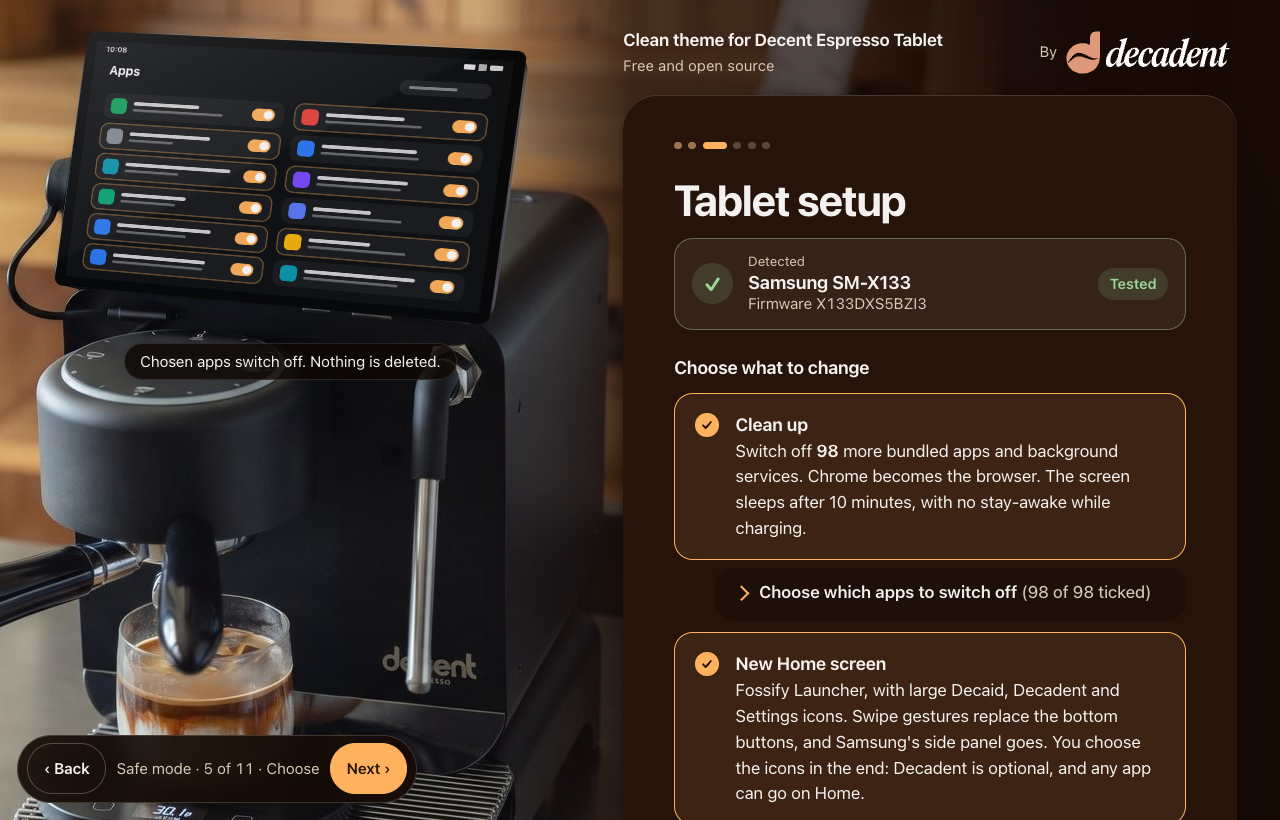
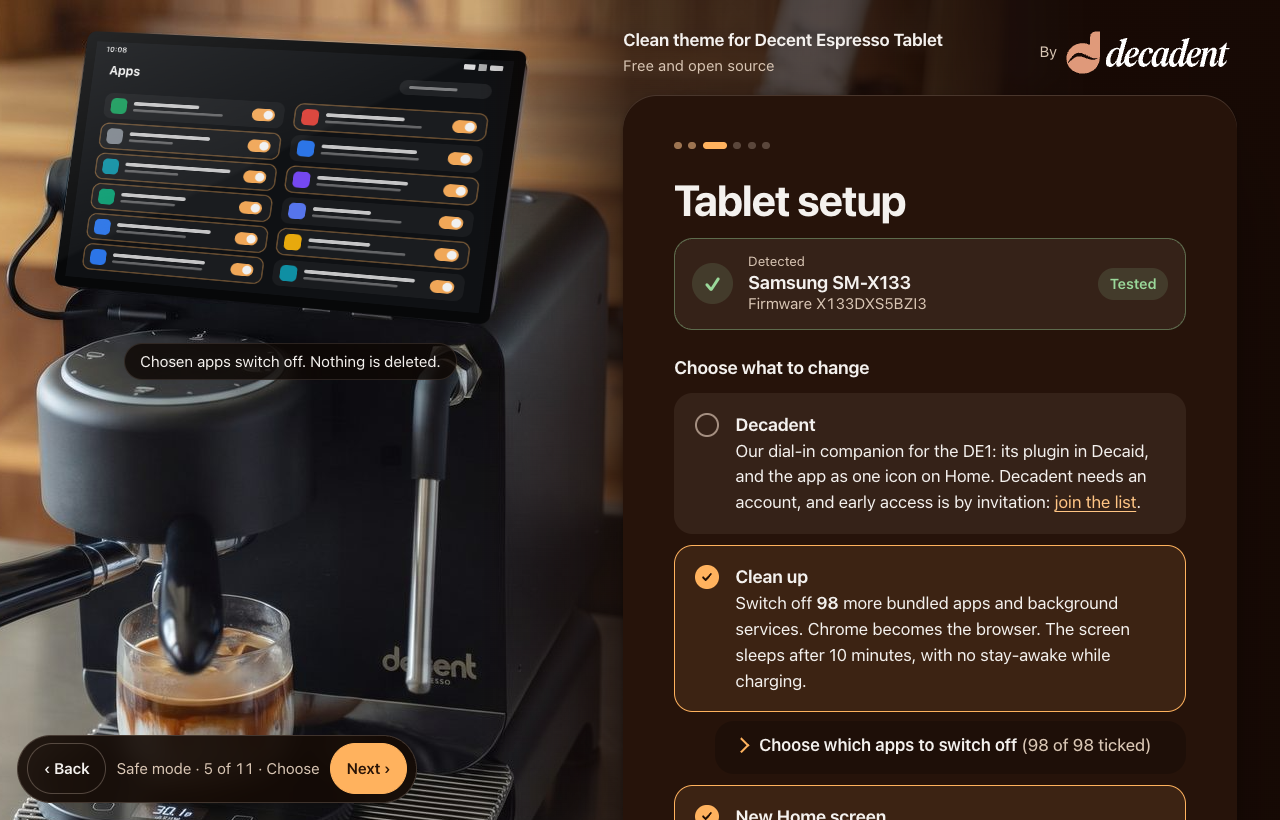
One installer, two ways in (D-34)
The choose screen holds every choice as a tick: Decaid, Decadent, Clean up, New Home screen.
Decadent no longer needs the Home option. ?for=decadent is the way in from Decadent's sign-up.
The last steps follow what was chosen and the tablet restarts only when something was changed.

Changed region(s): [[0.5312, 0.4878, 0.9375, 1.0]]

diff --git a/web/src/app.js b/web/src/app.js
@@ -11,6 +11,8 @@ const qs = new URLSearchParams(location.search);
 // behaves as in a real run, with Next / Back in a bar; nothing reaches USB. ?safe=done|nodecaid|manual|model|fail|build. &asks=N: Decaid asks its first questions for N checks.
 const DEMO = qs.has("safe") || qs.has("demo");
 const DEMO_KIND = qs.get("safe") ?? qs.get("demo");
+// The way in. ?for=decadent comes from Decadent's sign-up: the same page, with Decadent ticked from the start.
+const FOR_DECADENT = qs.get("for") === "decadent";
 
 const $ = (id) => document.getElementById(id);
 let tablet = null;
@@ -103,7 +105,10 @@ async function review() {
   try { await Promise.all([loadUndo(), tested && loadPlan()]); } finally { working(""); }
   $("unsupported-model").hidden = tested || newBuild;
   $("new-firmware").hidden = !newBuild;
+  decaidHave = await isInstalled(APKS.find((a) => a.name === "decaid").pkg);
   choiceDefaults();
+  // Safe mode: on=decaid,decadent,cleanup,home,plugin sets exactly those ticks.
+  if (DEMO && qs.get("on") !== null) { const on = qs.get("on").split(","); for (const k of ["decaid", "decadent", "plugin", "cleanup", "home"]) $(`opt-${k}`).checked = on.includes(k); }
   if (DEMO && qs.get("opts")) { const o = qs.get("opts"); $("opt-cleanup").checked = o !== "home"; $("opt-home").checked = o !== "clean"; }
   syncChoices();
   if (current !== "review") show("review");
@@ -117,6 +122,9 @@ const FOSSIFY = "org.fossify.home";
 function shown() {
   const avail = APPS.filter((a) => appState[a.pkg] === "enabled").length;
   return {
+    decaid: doAllowed && !decaidHave,
+    decadent: doAllowed && !!status && status.decadent_app !== "installed",
+    plugin: doAllowed && !!status && status.decadent_app === "installed" && decaidHave,
     cleanup: doAllowed && avail > 0,
     home: doAllowed && status && status.home !== FOSSIFY,
     undoApps: undoPlan.apps.length + undoPlan.appSettings.length > 0,
@@ -126,21 +134,30 @@ function shown() {
 function choiceDefaults() {
   const v = shown();
   $("opt-cleanup").checked = v.cleanup; $("opt-home").checked = v.home;
+  $("opt-decaid").checked = v.decaid; $("opt-decadent").checked = v.decadent && FOR_DECADENT; $("opt-plugin").checked = false;
   $("opt-undo-apps").checked = false; $("opt-undo-home").checked = false; $("keep-apps").checked = false;
 }
 // What the person has chosen, counting only the options on screen.
 function chosen() {
   const v = shown();
-  return { cleanup: v.cleanup && $("opt-cleanup").checked, home: v.home && $("opt-home").checked,
+  const decaid = v.decaid && $("opt-decaid").checked;
+  return { decaid, decadent: v.decadent && $("opt-decadent").checked && (decaidHave || decaid), plugin: v.plugin && $("opt-plugin").checked,
+    cleanup: v.cleanup && $("opt-cleanup").checked, home: v.home && $("opt-home").checked,
     undoApps: v.undoApps && $("opt-undo-apps").checked, undoHome: v.undoHome && $("opt-undo-home").checked };
 }
 function syncChoices() {
-  const v = shown(), c = chosen();
+  const v = shown();
+  // Decadent reaches the machine through Decaid: without Decaid on the tablet or ticked, its tick is off and says why.
+  const noDecaid = v.decadent && !decaidHave && !(v.decaid && $("opt-decaid").checked);
+  if (noDecaid) $("opt-decadent").checked = false;
+  $("opt-decadent").disabled = noDecaid; $("decadent-needs").hidden = !noDecaid;
+  const c = chosen();
+  $("row-decaid").hidden = !v.decaid; $("row-decadent").hidden = !v.decadent; $("row-plugin").hidden = !v.plugin;
   $("row-cleanup").hidden = !v.cleanup; $("pick").hidden = !c.cleanup;
   $("row-home").hidden = !v.home;
   $("row-undo-apps").hidden = !v.undoApps; $("undo-pick").hidden = !c.undoApps || undoPlan.apps.length === 0;
   $("row-undo-home").hidden = !v.undoHome; $("row-keep-apps").hidden = !c.undoHome;
-  const any = v.cleanup || v.home || v.undoApps || v.undoHome;
+  const any = v.decaid || v.decadent || v.plugin || v.cleanup || v.home || v.undoApps || v.undoHome;
   $("setup-part").hidden = !any; $("do-setup").hidden = !any;
   $("already").hidden = !(doAllowed && !v.cleanup && Object.keys(appState).length);
   syncUndo();
@@ -160,7 +177,7 @@ async function demoGoTo(to) {
     syncChoices(); await $("do-setup").onclick(); if (to === "undone") await runUndo(); return;
   }
   await $("do-setup").onclick(); if (to === "confirm" || current !== "confirm") return;
-  if (!decaidHave) { const d = qs.get("decaid") || "skip"; $(d === "add" ? "decaid-add" : "decaid-skip").checked = true; $("decaid-get").hidden = d !== "add"; }
+  if (!decaidHave) { const d = qs.get("decaid") || (want.decaid ? "add" : "skip"); $(d === "add" ? "decaid-add" : "decaid-skip").checked = true; $("decaid-get").hidden = d !== "add"; }
   const go = runSetup(); if (to === "running") return;
   await go; if (to === "finish") return;
   await until(() => $("fin-go") && !$("fin-you").hidden);
@@ -258,7 +275,7 @@ async function runSetup() {
   const bar = $("bar"), label = $("bar-label"), log = $("log"); log.textContent = "";
   const on = (l) => progress(l, bar, label, log);
   try {
-    const wantClean = $("opt-cleanup").checked, wantHome = $("opt-home").checked;
+    const wantClean = want.cleanup, wantHome = want.home;
     // Decaid is checked before anything is installed: the chosen file must be Decent's latest release.
     const decaid = APKS.find((a) => a.name === "decaid");
     let decaidBytes = null;
@@ -299,16 +316,16 @@ async function runSetup() {
     for (const el of document.querySelectorAll("[data-decaid]")) el.hidden = !decaidHave && !$("decaid-add").checked;
     const refused = (out.join("\n").match(/Refused by Android: (\d+)/) || [])[1];
     $("refused").textContent = refused && refused !== "0" ? `Android wouldn't switch off ${refused} of them, which is expected on some firmware.` : "";
-    $("fin-done").textContent = wantClean ? "The clean-up is done." : "The new Home screen is in.";
-    changedAt = Date.now();
-    busy = false; wantHomeDone = wantHome; show("finish"); startFinish();
+    $("fin-done").textContent = wantClean ? "The clean-up is done." : wantHome ? "The new Home screen is in." : decaidBytes ? "Decaid is installed." : "";
+    if (wantClean || wantHome) changedAt = Date.now();
+    busy = false; wantHomeDone = wantHome; ranChange = wantClean || wantHome; show("finish"); startFinish();
   } catch (e) { busy = false; setError("run-error", plainError(e)); $("run-title").textContent = "Stopped"; $("run-back").hidden = false; }
 }
 
 // Last steps. The owner joins Wi-Fi and signs in to Google; the core script's `finish` steps drive the rest
 // through the tablet's screen. Decaid's first questions are a pause for the owner (decaidReady). The written instructions
 // are always on the screen as the second way; a step the tablet doesn't allow also lists its own under Left for you.
-let wantHomeDone = true, finWifi = false, finAcct = null, finPoll = null, decadentHad = false;
+let wantHomeDone = true, ranChange = true, finWifi = false, finAcct = null, finPoll = null, decadentHad = false, finHome = "";
 const FIN = (s) => $("fin-steps").querySelector(`[data-k="${s}"]`);
 function finState(k, state, why) {
   const li = FIN(k); if (!li) return;
@@ -319,9 +336,7 @@ function finState(k, state, why) {
 async function finStatus() {
   const st = parseStatus(await tablet.setup("finish status"));
   finWifi = st.wifi === "connected";
-  decadentHad = st.decadent_app === "installed";
-  $("fin-decadent-h").textContent = decadentHad ? "Put Decadent on Home" : "Install Decadent on the tablet";
-  $("fin-decadent-p").textContent = decadentHad ? "Decadent is already on this tablet. Leave this off to keep its icon off Home." : "Our app for the DE1, as one icon on Home. Leave this off if you don't use it.";
+  decadentHad = st.decadent_app === "installed"; finHome = st.home || "";
   if (finAcct !== "skip") finAcct = st.google_account === "yes" ? "yes" : "no";
   $("fin-wifi-state").textContent = finWifi ? "Connected ✓" : "Not connected";
   $("wifi-form").hidden = finWifi;
@@ -409,23 +424,30 @@ async function runFinish(afterRestart = false) {
   stopPoll(); busy = true;
   $("fin-you").hidden = true; $("fin-run").hidden = false; $("fin-after").hidden = true; setError("fin-error");
   $("fin-run-h").textContent = "Finishing the tablet…"; $("fin-keep").hidden = false;
-  const home = wantHomeDone, onHome = home && $("fin-decadent").checked, decadent = onHome && !decadentHad;
-  // The Decadent plugin goes into Decaid through Decaid's own installer, whenever Decadent is wanted and Decaid is there.
-  const plugin = onHome && (decaidHave || $("decaid-add").checked);
-  // The plugin goes first: it is the one step that may need the owner (Decaid's first questions), so they are free after it.
-  const plan = ["restart", ...(plugin ? ["plugin"] : []), ...(home ? ["icons", "launcher"] : []), "updates", ...(decadent ? ["decadent"] : []), ...(home ? ["place", "more"] : []), ...(decaidHave || $("decaid-add").checked || onHome || decadentHad ? ["open"] : [])];
+  try { await finStatus(); } catch { /* keep the last reading */ }
+  // The steps for this visit. Read from the tablet as it is now (an undo may have run since the choose screen):
+  // the launcher steps arrange a launcher this visit installed, and never one the person has already arranged.
+  const newHome = wantHomeDone, ours = finHome === FOSSIFY;
+  const decaidThere = decaidHave || ($("decaid-add").checked && !!want.decaid);
+  const wantD = want.decadent && decaidThere, decadent = wantD && !decadentHad;
+  const onHome = wantD || decadentHad; // Decadent's icon belongs on Home
+  const plugin = (wantD || want.plugin) && decaidThere;
+  const plan = [...(ranChange ? ["restart"] : []), ...(plugin ? ["plugin"] : []), ...(newHome && ours ? ["icons", "launcher"] : []),
+    ...(ranChange || (wantD && finAcct === "yes") ? ["updates"] : []), ...(decadent ? ["decadent"] : []),
+    ...(ours && (newHome || wantD) ? ["place"] : []), ...(newHome && ours ? ["more"] : []), ...(decaidThere || onHome ? ["open"] : [])];
   // Name only the icons this tablet will get: Decaid if it is there, Decadent if wanted.
-  const icons = [...(decaidHave || $("decaid-add").checked ? ["Decaid"] : []), ...(onHome ? ["Decadent"] : []), "Settings"];
+  const icons = [...(decaidThere ? ["Decaid"] : []), ...(onHome ? ["Decadent"] : []), "Settings"];
   const said = (b) => icons.map((n) => (b ? `<b>${n}</b>` : n)).join(", ").replace(/, ([^,]*)$/, " and $1");
   const [w, h] = FIN("place").querySelectorAll(".place-list"); w.textContent = said(false); h.innerHTML = said(true);
   for (const li of $("fin-steps").children) li.hidden = !plan.includes(li.dataset.k);
   try {
-    if (!afterRestart) {
+    if (plan[0] === "restart" && !afterRestart) {
       finState("restart", "run");
       try { await restartTablet(); finState("restart", "done"); }
       catch { finState("restart", "manual"); busy = false; setError("fin-error", "The tablet didn't come back on its own. Unplug it and plug it back in, unlock it, tap Allow if it asks, then choose Reconnect the tablet."); $("fin-reconnect-row").hidden = false; return; }
     }
-    for (const k of plan.slice(1)) {
+    for (const k of plan) {
+      if (k === "restart") continue; // done above, or by hand before Reconnect
       finState(k, "run");
       if (k === "updates" && (!finWifi || finAcct !== "yes")) { finState(k, "manual", finWifi ? "needs a Google account" : "needs Wi-Fi"); continue; }
       if (k === "decadent" && !finWifi) { finState(k, "manual", "needs Wi-Fi"); continue; }
@@ -453,6 +475,8 @@ function finishLeft() {
   }
   const decadentIn = FIN("decadent") && !FIN("decadent").hidden && FIN("decadent").dataset.state !== "manual";
   if (decadentIn) { const item = document.createElement("li"); item.innerHTML = "<b>Log in to Decadent</b> on the tablet. It's open and waiting."; left.append(item); }
+  // Samsung's own Home puts a new app in its app list only, and its menus cannot be driven from here.
+  if (decadentIn && finHome !== FOSSIFY) { const item = document.createElement("li"); item.innerHTML = "<b>Put Decadent on Home.</b> It is in the tablet's app list: on Home, swipe up, hold <b>Decadent</b> and tap <b>Add to Home</b>."; left.append(item); }
   const none = left.children.length === 0;
   $("fin-left-h").textContent = none ? "All done" : "Left for you";
   if (none) { const item = document.createElement("li"); item.textContent = "Nothing. The tablet is ready."; left.append(item); }
@@ -496,7 +520,7 @@ function syncUndo() {
   const sum = $("undo-summary"); sum.textContent = "";
   if (c.undoApps) sum.append(el("li", { textContent: picked.length ? `Turn ${picked.length} app${picked.length === 1 ? "" : "s"} back on, with the original screen sleep time and browser.` : "Put the original screen sleep time and browser back." }));
   if (c.undoHome) sum.append(el("li", { textContent: $("keep-apps").checked ? "Put Samsung's Home screen back, keeping Fossify Launcher and Decadent installed." : "Put Samsung's Home screen back, and remove Fossify Launcher and Decadent." }));
-  const then = c.cleanup || c.home;
+  const then = c.cleanup || c.home || c.decaid || c.decadent || c.plugin;
   $("undo-then").hidden = !then;
   $("undo-go").textContent = then ? "Put these back, then continue" : "Put these back";
 }
@@ -518,7 +542,7 @@ async function runUndo() {
     }
     busy = false;
     // Undo first, then any new change chosen with it (say, the original Home screen back and Clean up).
-    if (c.cleanup || c.home) { $("opt-undo-apps").checked = false; $("opt-undo-home").checked = false; await toConfirm(); return; }
+    if (want.decaid || want.decadent || want.plugin || want.cleanup || want.home) { $("opt-undo-apps").checked = false; $("opt-undo-home").checked = false; await toConfirm(); return; }
     show("undone");
   } catch (e) { busy = false; setError("run-error", plainError(e)); $("run-title").textContent = "Stopped"; $("run-back").hidden = false; }
 }
@@ -651,23 +675,29 @@ function nameDecaid() {
   latestApk(APKS.find((a) => a.name === "decaid").url).then((l) => { if (l.version) $("decaid-link").textContent = `download the latest Decaid (${l.version})`; }).catch(() => { decaidNamed = false; });
 }
 
+// What this visit adds, fixed when the person leaves the choose screen: an undo that runs first must not change it.
+let want = { decaid: false, decadent: false, plugin: false, cleanup: false, home: false };
 async function toConfirm() {
   decaidHave = await isInstalled(APKS.find((a) => a.name === "decaid").pkg);
+  $("decaid-add").checked = want.decaid; $("decaid-skip").checked = !want.decaid; $("decaid-get").hidden = !want.decaid;
   $("decaid-have").hidden = !decaidHave; $("decaid-choice").hidden = decaidHave; $("decaid-missing").hidden = true;
+  $("confirm-h").textContent = decaidHave ? "Ready to start" : "Decaid installation";
   nameDecaid();
   show("confirm");
 }
 
 function init() {
   if (!supported()) { $("unsupported").hidden = false; $("start").disabled = true; }
+  if (FOR_DECADENT) { $("start-h").textContent = "Set up your tablet for Decadent"; $("start-lead").textContent = "Decaid, the Decadent plugin and the app, put on the tablet for you. A cleaner tablet too, if you want it."; }
   $("more").onclick = () => show("about");
   $("start").onclick = () => show("usb");
   $("usb-next").onclick = () => show("connect");
   $("connect").onclick = connect;
   $("do-setup").onclick = async () => {
-    const c = chosen(), none = !c.cleanup && !c.home && !c.undoApps && !c.undoHome;
+    const c = chosen(), none = !c.decaid && !c.decadent && !c.plugin && !c.cleanup && !c.home && !c.undoApps && !c.undoHome;
     $("opt-none").hidden = !none;
     if (none) return;
+    want = { decaid: c.decaid, decadent: c.decadent, plugin: c.plugin, cleanup: c.cleanup, home: c.home };
     if (c.undoApps || c.undoHome) { syncUndo(); show("undo"); return; }
     await toConfirm();
   };
@@ -708,7 +738,7 @@ function init() {
   $("pick-reset").onclick = () => { keep.clear(); for (const b of document.querySelectorAll("#app-groups input[data-pkg]")) if (!b.disabled) b.checked = true; syncApps(); };
   // Each area has one direction at a time: switching apps off or turning them back on, the new Home screen or the original.
   const OTHER = { "opt-cleanup": "opt-undo-apps", "opt-undo-apps": "opt-cleanup", "opt-home": "opt-undo-home", "opt-undo-home": "opt-home" };
-  for (const id of [...Object.keys(OTHER), "keep-apps"]) $(id).addEventListener("change", () => {
+  for (const id of [...Object.keys(OTHER), "keep-apps", "opt-decaid", "opt-decadent", "opt-plugin"]) $(id).addEventListener("change", () => {
     if ($(id).checked) { $("opt-none").hidden = true; if (OTHER[id]) $(OTHER[id]).checked = false; }
     syncChoices();
   });
@@ -718,7 +748,7 @@ function init() {
     FORCE = e.target.checked ? " --force" : "";
     doAllowed = e.target.checked;
     if (doAllowed) { working("Counting the apps…"); try { await loadPlan(); } finally { working(""); } }
-    const v = shown(); $("opt-cleanup").checked = v.cleanup; $("opt-home").checked = v.home;
+    choiceDefaults();
     syncChoices();
   });
   $("undo-app-list").addEventListener("change", (e) => { const p = e.target.dataset.undoPkg; if (p) { if (e.target.checked) undoOff.delete(p); else undoOff.add(p); syncUndo(); } });

diff --git a/web/src/demo.js b/web/src/demo.js
@@ -4,7 +4,7 @@ import APPS from "./apps.json";
 const wait = (ms) => new Promise((r) => setTimeout(r, ms));
 const PKG = (i) => APPS[(i - 1) % APPS.length].pkg; // the i-th package, 1-based
 export class DemoTablet {
-  constructor(opts = {}) { this.done = !!opts.done; this.noDecaid = !!opts.noDecaid; this.fail = opts.fail; this.manual = !!opts.manual; this.hold = !!opts.hold; this.pushed = []; this.wifi = opts.net === "wifi" || opts.net === "all"; this.account = opts.net === "all"; this.webapk = !!opts.decadent; this.slow = !!opts.slow; this.asks = opts.asks || 0; }
+  constructor(opts = {}) { this.done = !!opts.done; this.noDecaid = !!opts.noDecaid; this.fail = opts.fail; this.manual = !!opts.manual; this.hold = !!opts.hold; this.pushed = []; this.wifi = opts.net === "wifi" || opts.net === "all"; this.account = opts.net === "all"; this.webapk = !!opts.decadent; this.slow = !!opts.slow; this.asks = opts.asks || 0; this.fossify = this.done; }
   async prepare() {}
   async push(p) { this.pushed.push(p); }
   async run(c, onLine = () => {}) {
@@ -30,14 +30,14 @@ export class DemoTablet {
       if (this.fail === "model" || this.fail === "build") await say(`FAIL this tablet is ${m} ${b}, which has not been tested. Nothing changed.`);
     }
     if (a === "plan") await say(this.done ? "PLAN disable=0 already-off-or-absent=100" : "PLAN disable=97 already-off-or-absent=3");
-    if (a === "status") { for (const l of [`STATUS model=SM-X133`, `STATUS build=X133DXS5BZI3`, `STATUS undo_record=${this.done ? "present" : "none"}`, `STATUS home=${this.done ? "org.fossify.home" : "com.sec.android.app.launcher"}`, "STATUS app net.tadel.reaprime enabled"]) await say(l); }
+    if (a === "status") { for (const l of [`STATUS model=SM-X133`, `STATUS build=X133DXS5BZI3`, `STATUS undo_record=${this.done ? "present" : "none"}`, `STATUS home=${this.fossify ? "org.fossify.home" : "com.sec.android.app.launcher"}`, `STATUS decadent_app=${this.webapk ? "installed" : "none"}`, "STATUS app net.tadel.reaprime enabled"]) await say(l); }
     if (this.hold && !dry && (a === "cleanup" || a === "home")) { for (let i = 1; i <= 41; i++) await say(`DONE ${i}/100 ${PKG(i)}`, 0); await new Promise(() => {}); } // debug: stay on the running screen
     if (a === "cleanup" && !dry && this.fail === "run") { await say(`DONE 1/100 ${PKG(1)}`, 300); await say(`FAIL ${PKG(2)}: Unknown error. Stopped. Run undo to go back.`); return out; }
     if (a === "cleanup" && !dry) { for (let i = 1; i <= 100; i += 9) await say(`DONE ${i}/100 ${PKG(i)}`, 60); await say("OK cleanup finished. Refused by Android: 2"); this.done = true; }
     if (a === "cleanup" && dry) { await say("PLAN system/screen_off_timeout: 2147483646 -> 600000"); await say("PLAN 1/100 disable com.netflix.mediaclient"); await say("PLAN 2/100 disable com.spotify.music"); await say("OK dry run: nothing changed"); }
     if (a === "finish") {
       const k = args.split(" ")[1];
-      if (k === "status") { await say(`STATUS wifi=${this.wifi ? "connected" : "disconnected"}`); await say(`STATUS google_account=${this.account ? "yes" : "no"}`); await say("STATUS home=org.fossify.home"); await say(`STATUS decadent_app=${this.webapk ? "installed" : "none"}`); await say("OK finish status"); }
+      if (k === "status") { await say(`STATUS wifi=${this.wifi ? "connected" : "disconnected"}`); await say(`STATUS google_account=${this.account ? "yes" : "no"}`); await say(`STATUS home=${this.fossify ? "org.fossify.home" : "com.sec.android.app.launcher"}`); await say(`STATUS decadent_app=${this.webapk ? "installed" : "none"}`); await say("OK finish status"); }
       if (k === "wifi-open") { await say("DONE finish wifi-open"); setTimeout(() => { this.wifi = true; }, 5000); }
       if (k === "account-open") { await say("DONE finish account-open"); setTimeout(() => { this.account = true; }, 5000); }
       if (k === "icons") await say(this.manual ? "MANUAL finish icons no Remove option appeared" : "DONE finish icons removed=3", 900);
@@ -59,11 +59,11 @@ export class DemoTablet {
     }
     if (a === "install") await say("DONE installed fossify.apk", 300);
     if (a === "home" && dry) { await say("PLAN android.app.role.HOME -> org.fossify.home"); await say("PLAN navigation -> gestural"); await say("OK dry run: nothing changed"); }
-    if (a === "home" && !dry) { await say("DONE android.app.role.HOME = org.fossify.home"); await say("OK home screen finished"); }
+    if (a === "home" && !dry) { this.fossify = true; await say("DONE android.app.role.HOME = org.fossify.home"); await say("OK home screen finished"); }
     if (a === "undo" && dry && !this.done) { await say("FAIL no undo record on this tablet. Nothing to undo."); return out; }
     if (a === "undo" && dry && args.includes("--apps")) { for (const p of ["com.netflix.mediaclient", "com.spotify.music", "com.google.android.gm", "com.sec.android.app.sbrowser"]) await say(`PLAN enable ${p}`); await say("PLAN system/screen_off_timeout: 600000 -> 2147483646"); await say("PLAN android.app.role.BROWSER -> com.sec.android.app.sbrowser"); await say("OK dry run: nothing changed"); }
     if (a === "undo" && dry && args.includes("--home")) { await say("PLAN android.app.role.HOME -> com.sec.android.app.launcher"); await say("PLAN secure/edge_enable: 0 -> 1"); await say("PLAN navigation -> threebutton"); await say("PLAN uninstall org.fossify.home"); await say("PLAN uninstall org.chromium.webapk.a45977050c6c6f69b_v2"); await say("OK dry run: nothing changed"); }
-    if (a === "undo" && !dry) { for (let i = 1; i <= 100; i += 19) await say(`DONE enabled ${PKG(i)}`, 60); await say("MANUAL Remove the Google account you added, if any."); await say("OK undo finished. Reboot, then check Home and Settings."); this.done = false; }
+    if (a === "undo" && !dry) { for (let i = 1; i <= 100; i += 19) await say(`DONE enabled ${PKG(i)}`, 60); await say("MANUAL Remove the Google account you added, if any."); await say("OK undo finished. Reboot, then check Home and Settings."); this.done = false; if (!args.includes("--apps")) this.fossify = false; }
     return out;
   }
   close() {}

diff --git a/web/index.html b/web/index.html
@@ -105,8 +105,8 @@
 <ol class="dots" aria-hidden="true"><li></li><li></li><li></li><li></li><li></li><li></li></ol>
 
 <section data-step="start">
-  <h2>A cleaner experience for your Decent</h2>
-  <p class="lead">Less software in the background. More like part of the machine.</p>
+  <h2 id="start-h">A cleaner experience for your Decent</h2>
+  <p class="lead" id="start-lead">Less software in the background. More like part of the machine.</p>
   <section class="why" aria-labelledby="why-h">
     <h3 id="why-h">Why we made this</h3>
     <p>While we were making <a href="https://decadentcoffee.app" target="_top" rel="noopener">Decadent</a>, we wanted the cleanest overall experience for our coffee machine, so we decided to de-bloat the tablet and streamline the user interface.</p>
@@ -193,6 +193,9 @@
   <p id="already" class="note" hidden>All the listed apps are already off.</p>
   <div id="setup-part">
   <fieldset class="choices"><legend>Choose what to change</legend>
+    <label class="choice" id="row-decaid" hidden><input type="checkbox" id="opt-decaid" checked> <span><b>Decaid</b><br>Decent's newer app for the DE1. It isn't on this tablet yet: this installs Decent's latest release.</span></label>
+    <label class="choice" id="row-decadent" hidden><input type="checkbox" id="opt-decadent"> <span><b>Decadent</b><br>Our dial-in companion for the DE1: its plugin in Decaid, and the app as one icon on Home. Decadent needs an account, and early access is by invitation: <a href="https://decadentcoffee.app/" target="_blank" rel="noopener">join the list</a>.<span id="decadent-needs" class="muted" hidden><br>Decadent reaches the machine through Decaid, so tick Decaid as well.</span></span></label>
+    <label class="choice" id="row-plugin" hidden><input type="checkbox" id="opt-plugin"> <span><b>Check the Decadent plugin</b><br>Decadent is on this tablet. This looks in Decaid for its plugin, and adds it if it is missing.</span></label>
     <label class="choice" id="row-cleanup"><input type="checkbox" id="opt-cleanup" checked> <span><b>Clean up</b><br>Switch off <b id="count">0</b> more bundled <span id="count-apps">apps</span> and background services. Chrome becomes the browser. The screen sleeps after 10 minutes, with no stay-awake while charging.</span></label>
     <details id="pick" class="pick"><summary>Choose which apps to switch off <span id="picked" class="muted"></span></summary>
       <p class="note">All of these are ticked by default: that is the tested setup. Untick anything you want to keep. Switched-off apps stay installed, and you can turn any back on later in <b>Settings → Apps</b>.</p>
@@ -212,7 +215,7 @@
 </section>
 
 <section data-step="confirm" hidden>
-  <h2>Decaid installation</h2>
+  <h2 id="confirm-h">Decaid installation</h2>
   <p class="lead">Keep the cable plugged in until it finishes. It takes a few minutes.</p>
   <p id="decaid-have" class="note" hidden><b>Decaid is already on this tablet.</b> Nothing to install. Choose <b>Set up this tablet</b> to go on.</p>
   <fieldset id="decaid-choice" class="choices" hidden><legend>Decaid is Decent's newer app, and it isn't on this tablet yet.</legend>
@@ -256,7 +259,6 @@
         </div>
       </li>
     </ol>
-    <label class="choice" data-home><input type="checkbox" id="fin-decadent" checked> <span><b id="fin-decadent-h">Install Decadent on the tablet</b><br><span id="fin-decadent-p">Our app for the DE1, as one icon on Home. Leave this off if you don't use it.</span></span></label>
     <p id="fin-nowifi" class="note" hidden>Without Wi-Fi, the updates and Decadent are left for you to do later.</p>
     <div class="row"><span></span><button type="button" id="fin-go" class="primary">Finish for me</button></div>
   </div>

diff --git a/docs/decisions.md b/docs/decisions.md
@@ -123,3 +123,5 @@ looked like a bare tablet, and Lawnchair was rejected. Olauncher stays installed
 **D-32 The screen recorder is off the second page, 19 Nov 2026.** The owner: AZ Screen Recorder is not part of the build. The second page gets SE Profiler and Coffee Flow, in cells 2 and 4 of the middle row. The reference tablet keeps the recorder's icon, by the owner's choice. The two-app layout passes on the simulated tablet and has not been run on a real one; D-31's run placed three.
 
 **D-33 The empty strip above Decadent is cured in the app, not here, 19 Nov 2026.** The owner asked that the installer leave no dark strip above Decadent. Measured on the reference tablet (Chrome 158): the strip comes on some fresh opens of the app and not others, always on the first open after the install and about one open in four after that. Going Home and back removes it for that open only, and a restart of Chrome does not stop it returning, so no step this project runs can keep it away. The Decadent app now removes it itself at the first touch (Decadent 0.48.4). The Home-and-back in the page's last step (D-31) is taken out again.
+
+**D-34 One installer, two ways in, 19 Nov 2026.** The owner: people come for Decadent (they sign up and need Decaid, the plugin and the app) or for the clean tablet, and both should use this one page, with the by-hand way always on offer. The choose screen now holds every choice as a tick: **Decaid** (when it is missing), **Decadent** (the plugin and the app; when the app is missing), **Clean up** and **New Home screen**. The Decadent tick is no longer on the last screen, and Decadent no longer needs the Home option. `?for=decadent` in the address is the way in from Decadent's sign-up: the same page with Decadent ticked from the start and its own heading; without it Decadent starts unticked and says it needs an account. A tablet that is already set up is offered what it lacks above the undo choices, and "Check the Decadent plugin" when the app is there. The last steps follow what was chosen: the tablet restarts only after Clean up or New Home screen; the launcher steps (`icons`, `launcher`, `more`) run only on a launcher this visit installed; `place` runs whenever our launcher is Home; the page reads the tablet again before it builds the list. `has_webapk` counts only a web app whose package report names decadentcoffee.app. On Samsung's own Home a new app goes to the app list only and its menu cannot be read over adb, so the page tells the person how to add Decadent to Home. Plan and its review: `docs/superpowers/plans/2026-11-19-one-installer.md` in the Decadent repo.

diff --git a/docs/compatibility.md b/docs/compatibility.md
@@ -109,3 +109,15 @@ Not tested: the browser's own device chooser, Windows, joining Wi-Fi and the Goo
 
 | `finish more` (19 Nov 2026) | Home with one page | Second Home page | **Verified** by script over adb: SE Profiler, Coffee Flow and AZ Screen Recorder in the middle cells of a new second page, no third page; a second run skips all three. Its run from the webpage is **not tested** |
 | Empty strip above Decadent (Chrome 158) | | | Comes on some fresh opens, always the first after an install. No setup step prevents it (D-33); the Decadent app removes it at the first touch from 0.48.4 |
+
+## One installer, two ways in (D-34, 19 Nov 2026)
+
+| Run on the reference tablet, through the page | Result |
+|---|---|
+| Set-up tablet, read only | **Verified.** Offered: Check the Decadent plugin, and the two undo choices |
+| Check the Decadent plugin alone | **Verified.** No restart; plugin step found it loaded and changed nothing; both apps opened (85 s) |
+| Stock tablet with Decaid, Decadent ticked alone | **Verified.** No restart, nothing switched off, Samsung's Home kept. Plugin step, then the app installed as a WebAPK and opened (114 s). The app is in Samsung's app list, not on its Home; the page now says how to add it |
+| `?for=decadent`, Clean up and New Home screen with Decadent already there | **Verified.** Own heading; restart, icons, grid, the three icons, the second page with SE Profiler and Coffee Flow in cells 2 and 4, apps opened (5 min) |
+| Every combination of the ticks, in safe mode | `web/tests/safe-matrix.mjs`: ten cases, the commands sent compared with the expected order |
+
+Not tested on a real tablet: Decaid and Decadent ticked together on a tablet with no Decaid without the other two options; adding Decadent later to a tablet whose Home is already ours (safe mode only).
